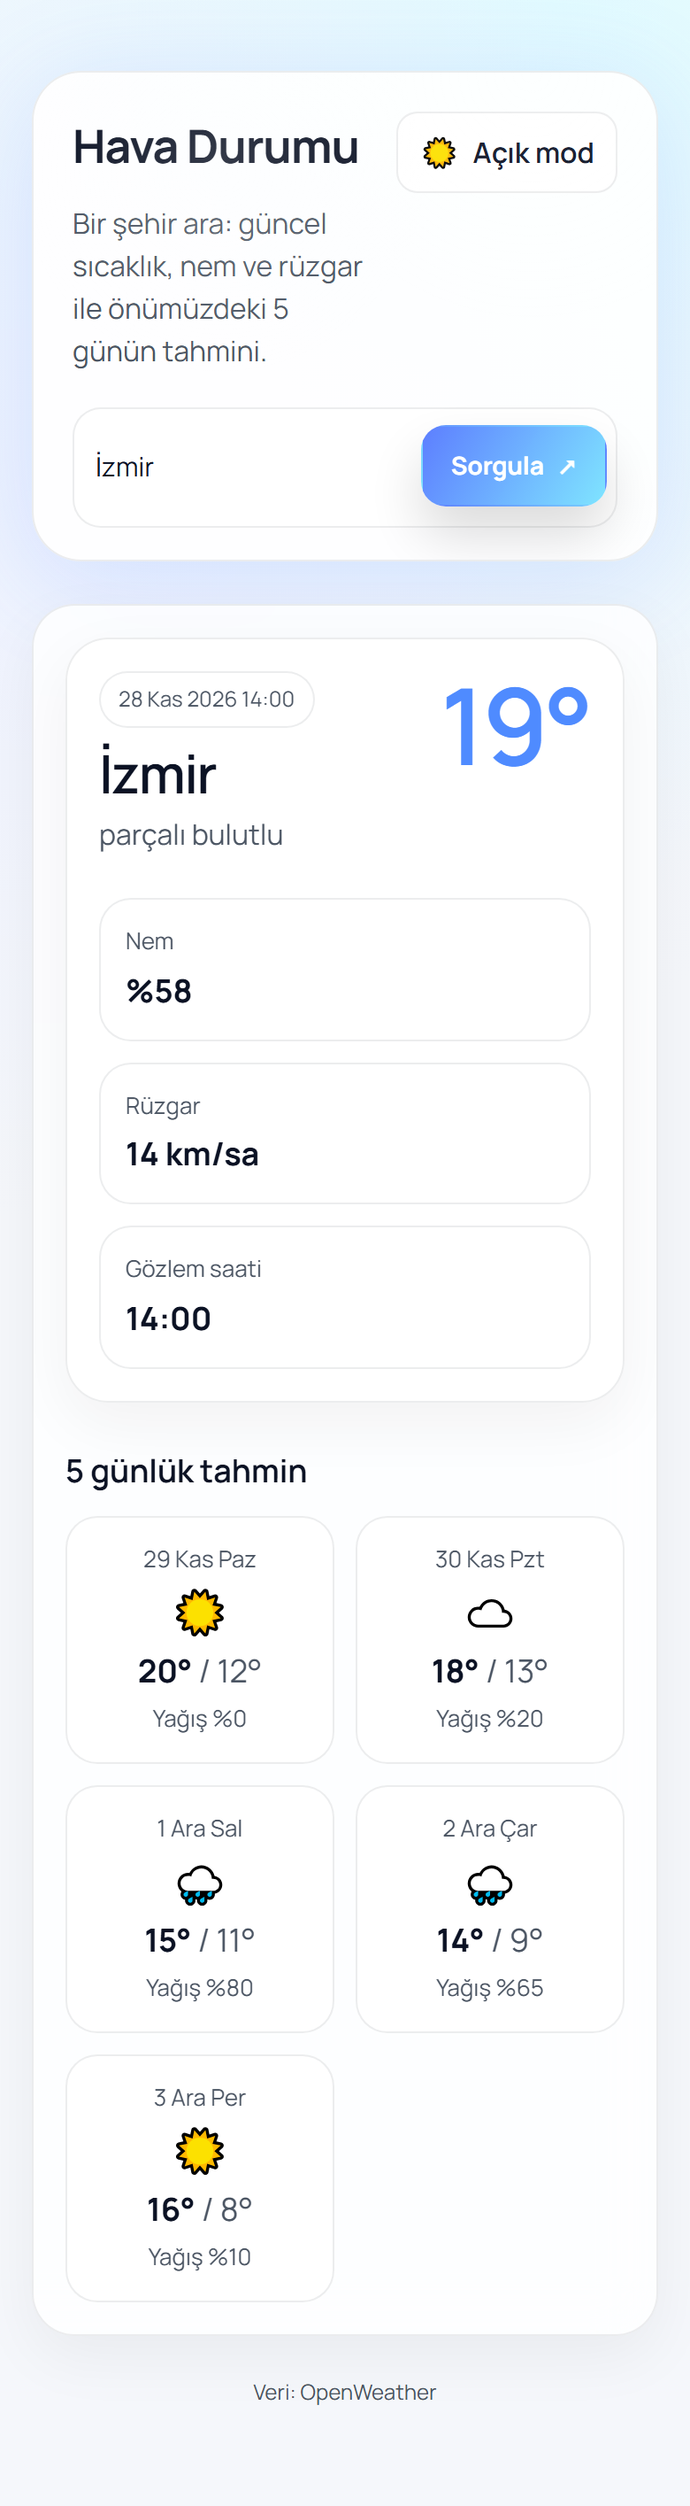
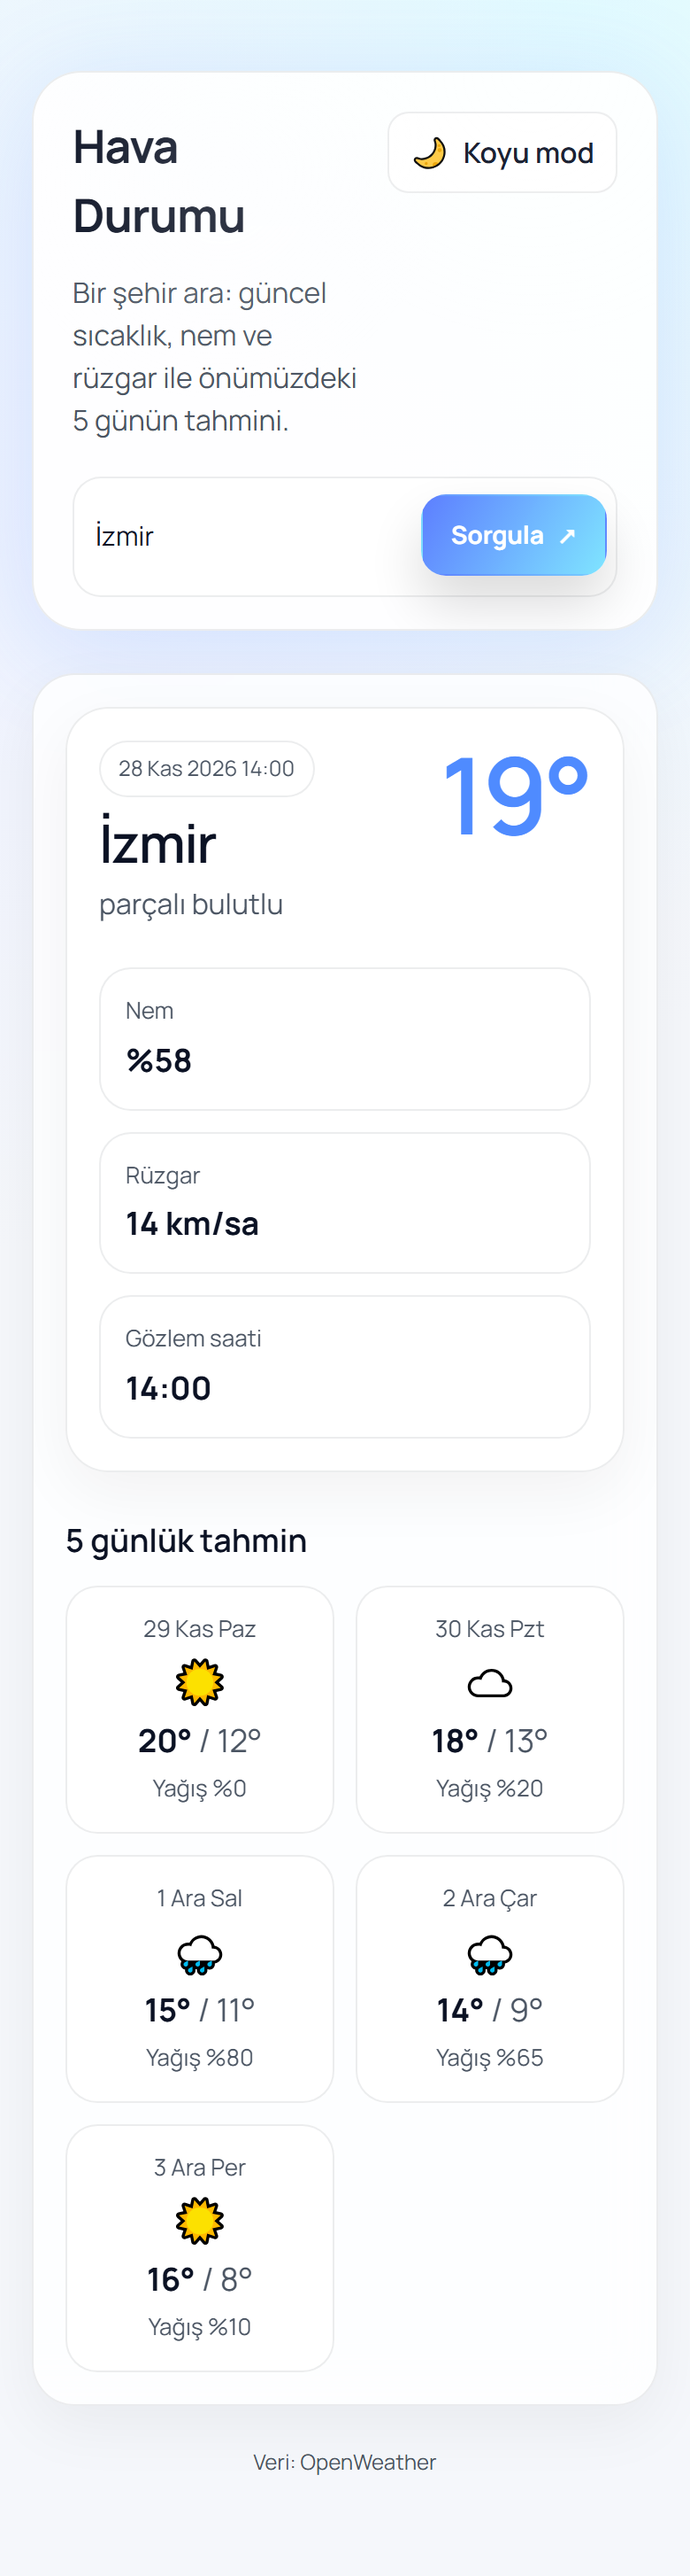
fix: theme button names the theme it switches to (#6)
In dark mode it said "Koyu mod", the theme already on screen. It now
shows the target ("Açık mod" in dark, "Koyu mod" in light); screenshots
retaken.

diff --git a/app/components/ThemeToggle.tsx b/app/components/ThemeToggle.tsx
@@ -2,13 +2,15 @@
 
 import { useTheme } from "./ThemeProvider";
 
+/** The button names the theme it switches to, not the one already on screen. */
 export function ThemeToggle() {
   const { theme, toggle } = useTheme();
+  const next = theme === "dark" ? "Açık" : "Koyu";
 
   return (
-    <button type="button" className="theme-toggle" onClick={toggle} aria-label="Tema değiştir">
-      <span>{theme === "dark" ? "🌙" : "☀"}</span>
-      <span>{theme === "dark" ? "Koyu" : "Açık"} mod</span>
+    <button type="button" className="theme-toggle" onClick={toggle} aria-label={`${next} moda geç`}>
+      <span aria-hidden="true">{theme === "dark" ? "☀" : "🌙"}</span>
+      <span>{next} mod</span>
     </button>
   );
 }
